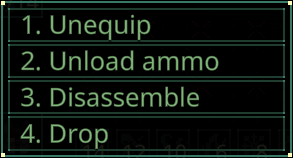
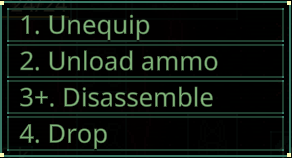
Added modifier keys and commands that require a modifier

Changed region(s): [[0.0, 0.0, 0.7705, 1.0], [0.0925, 0.0253, 0.1233, 0.0506]]

diff --git a/src/HotkeyMod.cs b/src/HotkeyMod.cs
@@ -3,6 +3,7 @@ using System;
 using System.Collections.Generic;
 using System.Linq;
 using System.Text;
+using System.Text.RegularExpressions;
 using System.Threading.Tasks;
 using UnityEngine;
 using static System.Runtime.CompilerServices.RuntimeHelpers;
@@ -40,15 +41,24 @@ namespace QM_ContextMenuHotkeys
             if (contextMenu.IsActiveView)
             {
 
+                HashSet<ContextMenuCommand> modifierCommands = Plugin.Config.ModifierCommands;
+
                 CommonButton[] commandButtons = contextMenu.commandButtons;
                 //Hack to not use Harmony.  The menu buttons are recreated when the context menu is shown again.
-                //Number the items.
-                if (commandButtons.Length > 0 && !commandButtons[0].captionText.text.StartsWith($"{ModConfig.KeyStrings[0]}. "))
+                //Prefix the command text.
+
+                //The command binds array will match the buttons array
+                List<ContextMenuCommand> commandBinds = contextMenu._commandBinds.Values.ToList();
+                if (commandBinds.Count > 0 && !commandButtons[0].captionText.text.StartsWith($"{ModConfig.KeyStrings[0]}"))
                 {
-                    for (int i = 0; i < commandButtons.Length; i++)
+                    for (int i = 0; i < commandBinds.Count && commandBinds.Count < 10; i++)
                     {
+                        //Shift only command
+                        string shiftText = modifierCommands.Contains(commandBinds[i]) ?
+                            "+" : "";
+
                         commandButtons[i].captionText.text =
-                            $"{ModConfig.KeyStrings[i]}. {commandButtons[i].captionText.text}";
+                            $"{ModConfig.KeyStrings[i]}{shiftText}. {commandButtons[i].captionText.text}";
                     }
                 }
 
@@ -65,17 +75,27 @@ namespace QM_ContextMenuHotkeys
                     Input.GetKeyUp(Plugin.Config.Command10) ? 9 : -1
                     ;
 
-                if (buttonIndex != -1)
+
+                //Broken out to help with key debugging.
+                if (buttonIndex == -1) { return; }
+
+                //Shift commands
+                if (buttonIndex >= commandBinds.Count) return;
+
+                if (modifierCommands.Contains(commandBinds[buttonIndex]))
                 {
-                    if (buttonIndex > commandButtons.Length) return;
-
-                    CommonButton commandButton = commandButtons[buttonIndex];
-
-                    contextMenu.OnContextCommandClick(commandButton);
+                    //This command requires a shift.
+                    if(!Plugin.Config.ModifierKeys.Any(x=> Input.GetKey(x)))
+                    {
+                        return;
+                    }
                 }
 
-            }
+                CommonButton commandButton = commandButtons[buttonIndex];
 
+                contextMenu.OnContextCommandClick(commandButton);
+
+            }
         }
     }
 }

diff --git a/src/JsonArrayEnumConverter.cs b/src/JsonArrayEnumConverter.cs
@@ -1,0 +1,68 @@
+using Newtonsoft.Json.Linq;
+using Newtonsoft.Json;
+using System;
+using System.Collections.Generic;
+using System.Linq;
+using System.Reflection;
+using System.Text;
+using System.Threading.Tasks;
+
+namespace QM_ContextMenuHotkeys
+{
+
+    //In progress.  A bit of a hack right now.
+
+    /// <summary>
+    /// Converts array types of enums.  The Array type must have an Add(T) function
+    /// Original code from https://blog.bitscry.com/2017/09/06/single-or-array-enum-json-converter/
+    /// </summary>
+    /// <typeparam name="ListT"></typeparam>
+    /// <typeparam name="T"></typeparam>
+    public class JsonArrayEnumConverter<ListT, T> : JsonConverter
+        where ListT : IEnumerable<T>, new()
+        where T : struct, Enum
+    {
+        public override bool CanConvert(Type objectType)
+        {
+            return (objectType == typeof(ListT));
+        }
+
+        public override object ReadJson(JsonReader reader, Type objectType, object existingValue, JsonSerializer serializer)
+        {
+            JToken token = JToken.Load(reader);
+            MethodInfo addFunction = typeof(ListT).GetMethod("Add");
+            ListT list = new ListT();
+
+            if (token.Type == JTokenType.Array)
+            {
+                token.ToObject<List<string>>().ForEach(x => addFunction.Invoke(list, new object[] { (T)Enum.Parse(typeof(T), x) }));
+                return list;
+            }
+
+            addFunction.Invoke(list, new object[] { (T)Enum.Parse(typeof(T), token.ToObject<string>()) });
+            return list;
+        }
+
+        public override void WriteJson(JsonWriter writer, object value, JsonSerializer serializer)
+        {
+            //if (value.GetType() == typeof(List<T>))
+            if (value.GetType() == typeof(ListT))
+            {
+                ListT list = (ListT)value;
+                value = list.Select(x => x.ToString()).ToList();
+            }
+            else if (value.GetType() == typeof(T))
+            {
+
+                value = value.ToString();
+            }
+
+            serializer.Serialize(writer, value);
+        }
+
+        public override bool CanWrite
+        {
+            get { return true; }
+        }
+    }
+}

diff --git a/src/ModConfig.cs b/src/ModConfig.cs
@@ -1,4 +1,5 @@
-using Newtonsoft.Json;
+using MGSC;
+using Newtonsoft.Json;
 using Newtonsoft.Json.Converters;
 using System;
 using System.Collections.Generic;
@@ -38,6 +39,30 @@ namespace QM_ContextMenuHotkeys
         [JsonConverter(typeof(StringEnumConverter))]
         public KeyCode Command10 { get; set; } = KeyCode.Alpha0;
 
+
+        [JsonConverter(typeof(JsonArrayEnumConverter<HashSet<ContextMenuCommand>, ContextMenuCommand>))]
+        public HashSet<ContextMenuCommand> ModifierCommands { get; set; } = new HashSet<ContextMenuCommand>()
+        {
+            ContextMenuCommand.Disassemble,
+            ContextMenuCommand.DisassembleX1,
+            ContextMenuCommand.DisassembleAll,
+            ContextMenuCommand.UnlockDatadisk,
+        };
+
+        /// <summary>
+        /// The modifier keys required for ModiferCommands
+        /// </summary>
+        [JsonConverter(typeof(JsonArrayEnumConverter<List<KeyCode>, KeyCode>))]
+        public List<KeyCode> ModifierKeys { get; set; } = new List<KeyCode>()
+        {
+            KeyCode.LeftShift,
+            KeyCode.RightShift,
+            KeyCode.LeftAlt,
+            KeyCode.RightAlt
+        };
+
+
+
         public void InitKeyStrings()
         {
 
@@ -54,8 +79,6 @@ namespace QM_ContextMenuHotkeys
                 FormatKeyCode(Command9),
                 FormatKeyCode(Command10),
             };
-            
-
         }
 
         public string FormatKeyCode(KeyCode code)

diff --git a/src/Properties/AssemblyInfo.cs b/src/Properties/AssemblyInfo.cs
@@ -32,5 +32,5 @@ using System.Runtime.InteropServices;
 // You can specify all the values or you can default the Build and Revision Numbers
 // by using the '*' as shown below:
 // [assembly: AssemblyVersion("1.0.*")]
-[assembly: AssemblyVersion("1.0.0.0")]
-[assembly: AssemblyFileVersion("1.0.0.0")]
+[assembly: AssemblyVersion("2.0.0.0")]
+[assembly: AssemblyFileVersion("2.0.0.0")]

diff --git a/README.md b/README.md
@@ -1,19 +1,76 @@
 # Quasimorph Context Menu Hotkeys
 
-![Context menu screenshot](NumberedContextMenu.png)
+![Context menu screenshot](media/NumberedContextMenu.png)
 
 # Info
 Adds hotkeys to the context menus.
-The keys default to 0-9, but can be  configured.
+
+Ex: Pressing the 1 key for "1. Unequip" will unequip the item.
+Ex: Pressing Alt+3 for the "3+. Disassemble" will disassemble the item.
+
+The keys default to 0-9, and modifiers to Shift or Alt.  Can be customized in the configuration.
+
+## Modifier Keys
+Any command with a '+' requires holding down an alt or shift key to activate.
+This is to safeguard against accidentally invoking disassembly commands.
+
+The modifier keys (shift, alt, etc.) and the list of commands that require a modifier key can be configured.
 
 # Configuration
 The configuration file is located at ```%UserProfile%\AppData\LocalLow\Magnum Scriptum Ltd\Quasimorph\QM_ContextMenuHotkeys.json```.
 The file will be created the first time the game is run.
 
-The file will contain multiple Command\<number\> entries.  Each entry corresponds to the menu item hotkey from top to bottom.
-Use the Unity Keycode values found here https://docs.unity3d.com/ScriptReference/KeyCode.html
 
+## Settings
+Note: if the config file does not have all of the settings below, delete the file.  When the game is next run, a new config file with all options will be created.
+
+|Name|Default|Description|
+|--|--|--|
+|CommandX|0-9|The activation key that matches the number.  Ex: 1. Disassemble uses the 1 key.
+|ModifierCommands|Disassemble*, UnlockDataDisk|The list of commands to require a modifier key to be held.  Ex: Alt + 1.  See the Command List section below |
+|ModifierKeys|Shift, Alt|The modifier keys for the ModifierCommands|
+
+## Key List
+The list of valid keyboard keys can be found  at the bottom of https://docs.unity3d.com/ScriptReference/KeyCode.html
+
+# Command List
+
+The game currently supports the following commands for the Context Menu.
+
+```
+Drop
+Take
+Equip
+Unequip
+Use
+Reload
+UnloadAmmo
+Eat
+FixWound
+Amputate
+Disassemble
+DisassembleAll
+DisassembleX1
+Repair
+SplitStacks
+SplitStacksConfirm
+UnlockDatadisk
+SpillOnTheFloorX1
+SpillOnTheFloorX5
+ApplySkull
+RemoveSkull
+RemoveFire
+```
 
 # Source Code
 Source code is available on GitHub https://github.com/NBKRedSpy/QM-ContextMenuHotkeys
+
+# Change Log
+## 2.0.0
+
+* Added list for commands that must have a modifier.  Defaults to destructive items.
+
+* Improved the command parsing.  Now avoids invisible cached commands.
+
+
 
